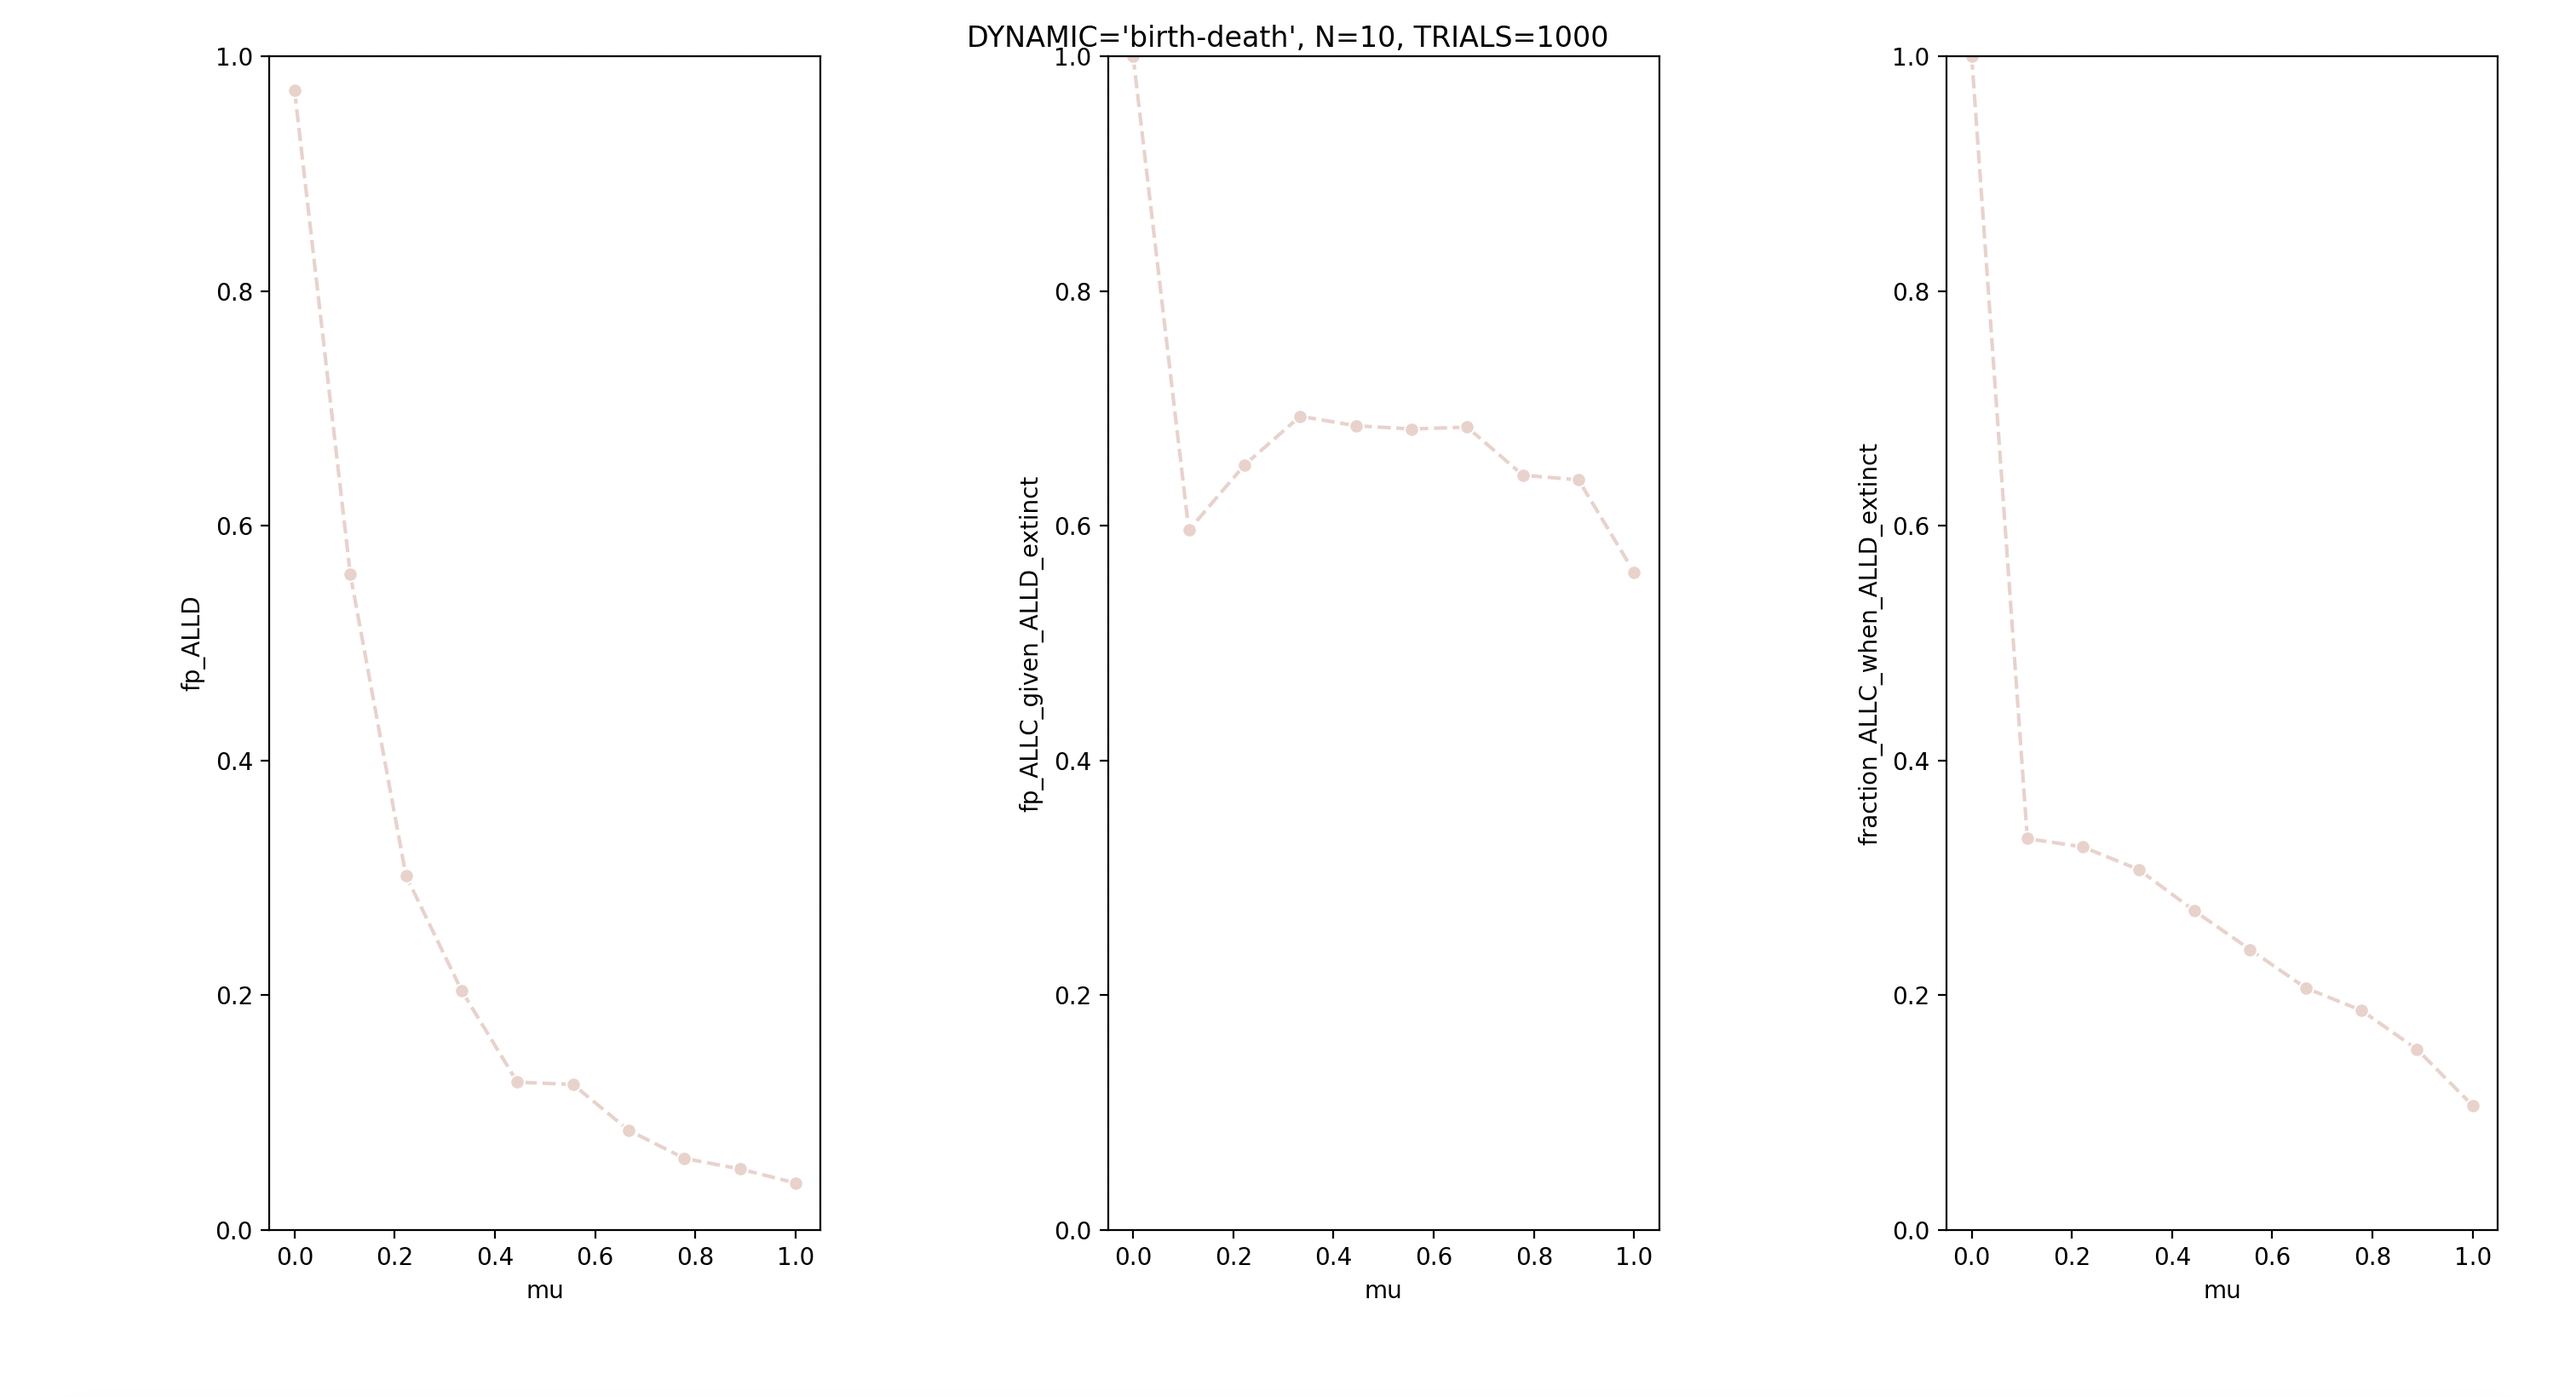
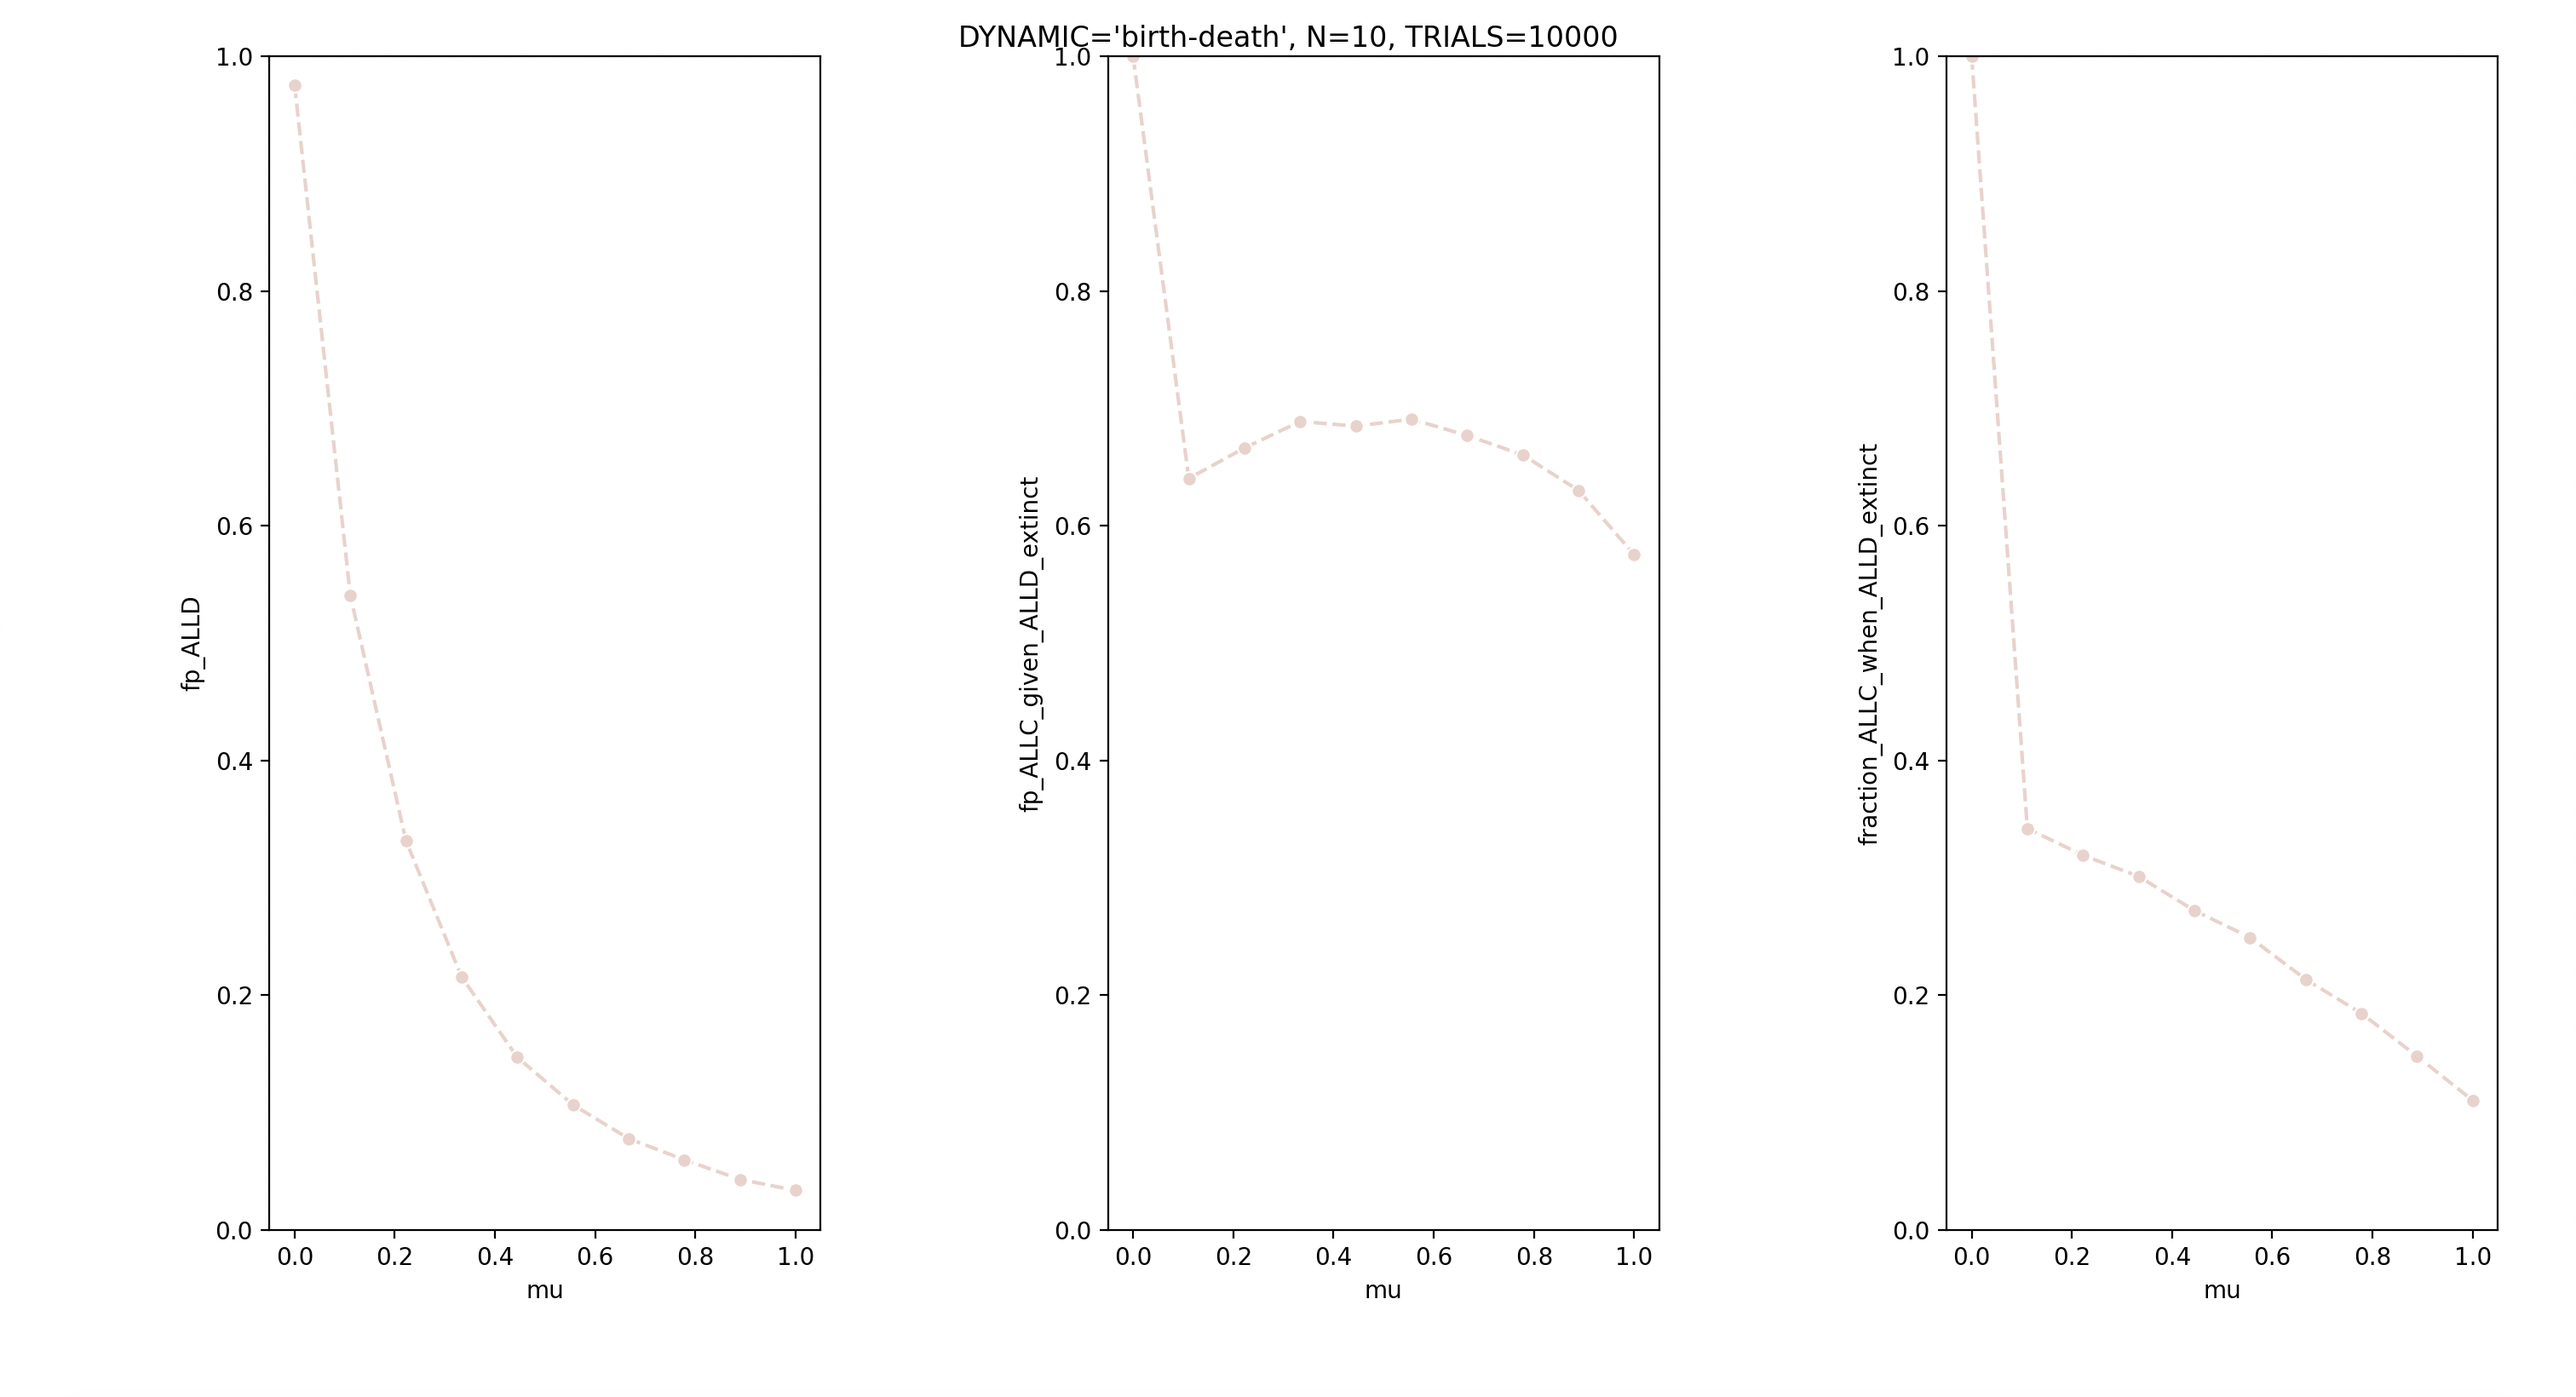
more trials, updated figures

diff --git a/martins-dream.py b/martins-dream.py
@@ -229,9 +229,9 @@ import itertools
 
 def main():
   INTERVALS = 10
-  TRIALS = 1000
+  TRIALS = 10000
   NUM_WORKERS = 8
-  DYNAMIC = 'pairwise-comparison'
+  DYNAMIC = 'death-birth'
   data = []
   TICKS = np.linspace(0, 1, INTERVALS, endpoint=True) 
   TICK_LABELS = [('0' if tick == 0 else '1' if tick == 1 else '') for tick in TICKS]
